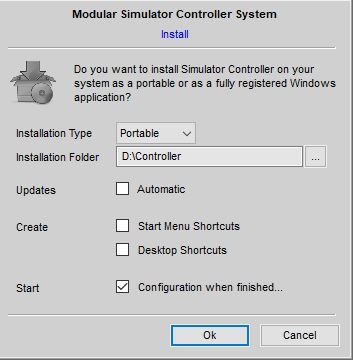
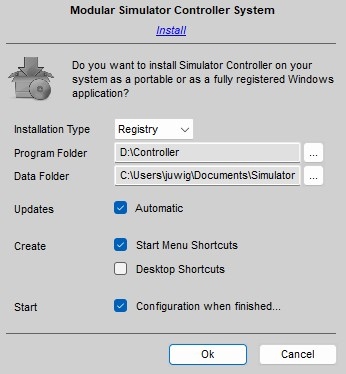
Configurable data folder location Part 2

diff --git a/Docs/Installation & Configuration.md b/Docs/Installation & Configuration.md
@@ -4,7 +4,7 @@ Before we go into the full details of the complete installation and configuratio
 
 ## Installation
 
-Installation is easy and fully automatic. Simply download and run the installer from the [GitHub project page](https://github.com/SeriousOldMan/Simulator-Controller#download-and-installation) (or simply click [here](https://simulatorcontroller.s3.eu-central-1.amazonaws.com/Simulator+Controller.exe)) and follow the instructions. You will have the option to install the Simulator Controller package in any location on your hard disks and you can decide to fully register Simulator Controller in Windows or to use a portable installation without updating the Registry. You may also create Start Menu and Desktop shortcuts according to your preferences. I strongly recommend to leave automatic updates ticked, unless you have a very unusual installation location.
+Installation is easy and fully automatic. Simply download and run the installer from the [GitHub project page](https://github.com/SeriousOldMan/Simulator-Controller#download-and-installation) (or simply click [here](https://simulatorcontroller.s3.eu-central-1.amazonaws.com/Simulator+Controller.exe)) and follow the instructions. You will have the option to install the Simulator Controller package in any location on your hard disks and you can decide to fully register Simulator Controller in Windows or to use a portable installation without updating the Registry. Beside the program itself, a folder for all the data of Simulator Controller will normally created in your user *Documents* folder, but you can also change this location during installation. You may also create Start Menu and Desktop shortcuts according to your preferences. I strongly recommend to leave automatic updates ticked, unless you have a very unusual installation location.
 
 ![](https://github.com/SeriousOldMan/Simulator-Controller/blob/main/Docs/Images/Installation.JPG)
 

diff --git a/Docs/Backlog.md b/Docs/Backlog.md
@@ -1,7 +1,6 @@
 #### General
   1. Support for unit conversions per simulator
-  2. Make the location of the local data folder configurable during installation process
-  3. Support for tool calling in the local LLM Runtime
+  2. Support for tool calling in the local LLM Runtime
 
 #### Simulation Support
   1. Better integration with the weather forecast data of *rFactor 2*
